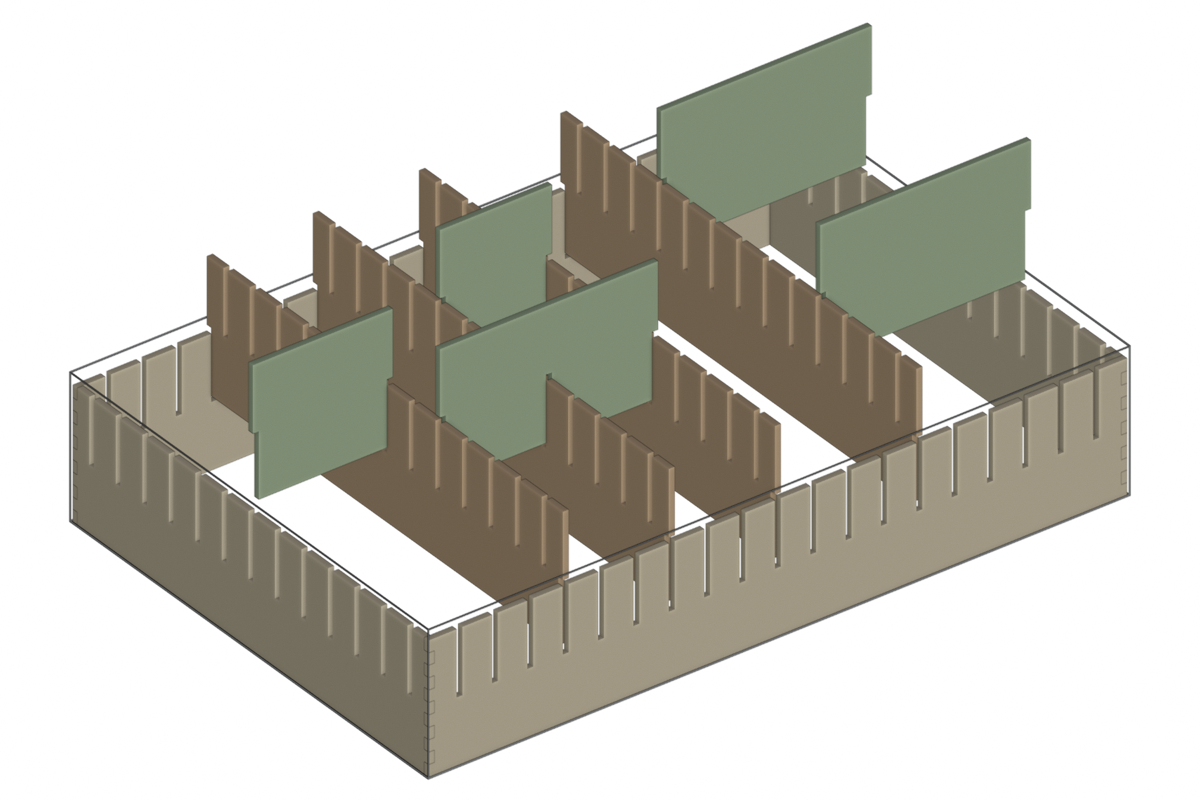
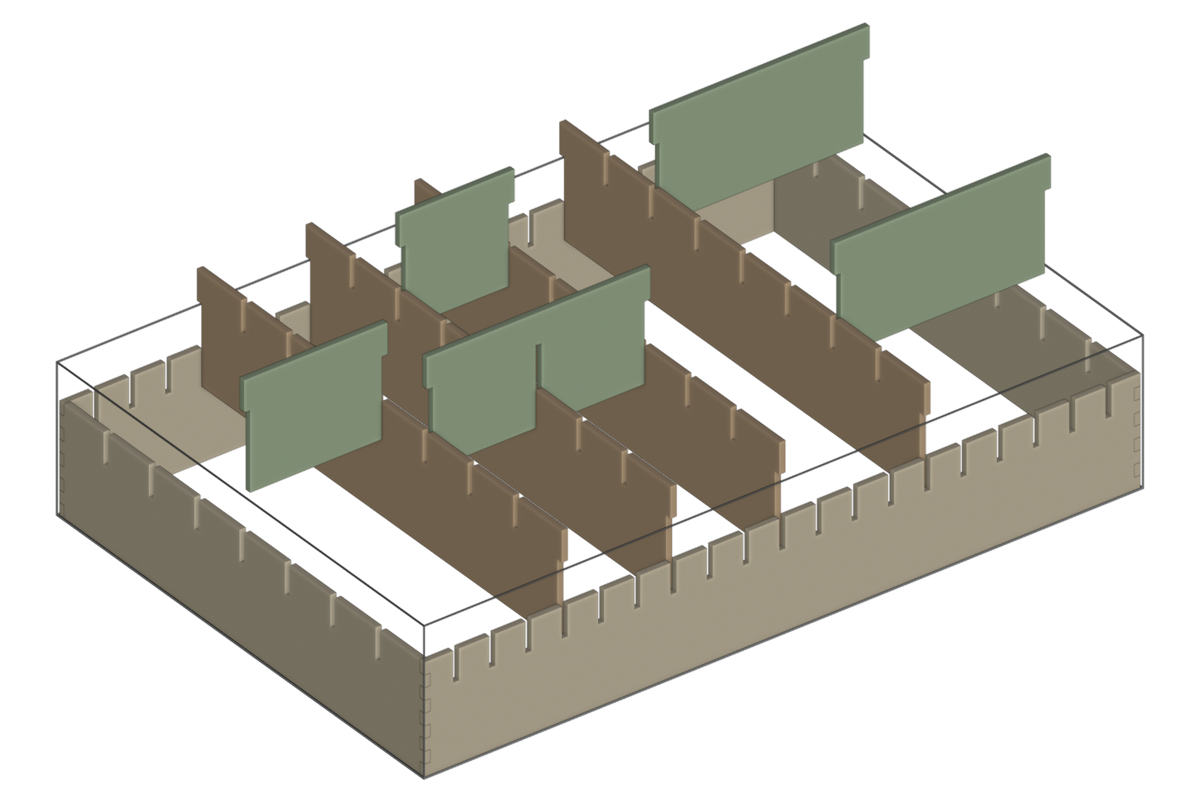
Drawer organizer: 4.5 in walls, 1.25 in notches, coarser row grid
Claude-Session: https://claude.ai/code/session_01LZycd3S2pwbAJV8HQ6xUfH

diff --git a/projects/drawer-organizer/config.py b/projects/drawer-organizer/config.py
@@ -11,19 +11,20 @@ CONFIG = OrganizerConfig(
     drawer_depth=20.25,
     drawer_height=6.0,
     clearance=1 / 16,
-    height=5.5,
+    height=4.5,
     thickness=0.25,
     column_pitch=1.5,
-    row_pitch=1.5,
+    row_pitch=2.5,
+    notch_depth=1.25,
     # Column dividers at these grid positions (left to right).
     columns=[-6, -3, 0, 4],
     # Row dividers: (start boundary, end boundary, row index). Boundary 0 is the left
     # wall, 1..4 the column dividers above, 5 the right wall.
     rows=[
         RowDivider(0, 1, 0),    # column 1 split in half
-        RowDivider(1, 3, -2),   # one long divider across columns 2 and 3, crossing divider 2
+        RowDivider(1, 3, -1),   # one long divider across columns 2 and 3, crossing divider 2
         RowDivider(2, 3, 2),    # column 3 gets a second split further back
-        RowDivider(4, 5, -3),   # column 5 split into three
-        RowDivider(4, 5, 3),
+        RowDivider(4, 5, -2),   # column 5 split into three
+        RowDivider(4, 5, 2),
     ],
 )

diff --git a/projects/drawer-organizer/test_design.py b/projects/drawer-organizer/test_design.py
@@ -15,10 +15,11 @@ def test_outer_size_and_grid(design):
     assert xs == sorted(xs) and len(xs) == 19
     assert xs[0] + xs[-1] == pytest.approx(design.width)  # symmetric about the centre
     assert xs[0] - 0.125 >= 0.25 + 0.5                   # clear of the corner joint plus margin
-    assert len(design.row_grid) == 13
+    assert len(design.row_grid) == 7
 
 
 def test_egg_crate_notches_are_complementary(design):
+    assert design.top_notch_depth == 1.25
     assert design.top_notch_depth + design.bottom_notch_depth == design.height
 
 

diff --git a/projects/drawer-organizer/README.md b/projects/drawer-organizer/README.md
@@ -42,10 +42,11 @@ All in `config.py`, all in inches.
 | parameter | default | notes |
 |---|---|---|
 | `clearance` | 1/16 per side | box is the drawer size minus twice this |
-| `height` | 5.5 | wall and divider height; see open questions |
+| `height` | 4.5 | wall and divider height |
 | `thickness` | 0.25 | **measure your actual stock with calipers** and set this |
-| `column_pitch`, `row_pitch` | 1.5 | spacing of the notch grid |
-| `notch_depth` | half the height | depth of the top-edge notches; dividers get the rest |
+| `column_pitch` | 1.5 | spacing of column-divider positions across the width |
+| `row_pitch` | 2.5 | spacing of row-divider positions along the depth |
+| `notch_depth` | 1.25 | depth of the top-edge notches; dividers' bottom notches get the rest (3.25) |
 | `finger_width` | 0.5 | target; the real width makes an odd finger count |
 | `edge_margin` | 0.5 | solid wood kept between the outermost notch and a corner joint |
 | `columns` | `[-6, -3, 0, 4]` | grid indices of column dividers, 0 at the centre |
@@ -53,7 +54,7 @@ All in `config.py`, all in inches.
 
 Grid indices count outward from the middle: column index 0 is the drawer's centre line,
 negative is left, positive is right; row index 0 is the middle of the depth, negative
-toward the front. With the defaults there are 19 column positions and 13 row positions.
+toward the front. With the defaults there are 19 column positions and 7 row positions.
 
 ## Current layout
 
@@ -62,10 +63,10 @@ Running `build.py` prints this. Five columns, left to right:
 | column | clear width | cells front to back |
 |---|---|---|
 | 1 | 5.4375 | 9.6875 / 9.6875 |
-| 2 | 4.25 | 6.6875 / 12.6875 |
-| 3 | 4.25 | 6.6875 / 5.75 / 6.6875 |
+| 2 | 4.25 | 7.1875 / 12.1875 |
+| 3 | 4.25 | 7.1875 / 7.25 / 4.6875 |
 | 4 | 5.75 | 19.625 |
-| 5 | 8.4375 | 5.1875 / 8.75 / 5.1875 |
+| 5 | 8.4375 | 4.6875 / 9.75 / 4.6875 |
 
 This is a demonstration layout that exercises every joint type, not a proposal for
 what belongs in the drawer.
@@ -74,10 +75,10 @@ what belongs in the drawer.
 
 | part | count | size (in) | on the Glowforge |
 |---|---|---|---|
-| long wall | 2 | 29.625 x 5.5 | passthrough |
-| short wall | 2 | 20.125 x 5.5 | passthrough |
-| column divider | 4 | 20.125 x 5.5 | passthrough |
-| row dividers | 5 | 4.75 to 9.25 x 5.5 | fit on the bed |
+| long wall | 2 | 29.625 x 4.5 | passthrough |
+| short wall | 2 | 20.125 x 4.5 | passthrough |
+| column divider | 4 | 20.125 x 4.5 | passthrough |
+| row dividers | 5 | 4.75 to 9.25 x 4.5 | fit on the bed |
 
 Every part that runs the full depth of the drawer is just over the 19.5 in bed, so the
 walls and column dividers all need the passthrough. Shrinking the box to 19.5 in deep
@@ -89,13 +90,13 @@ stock thickness get applied at that stage; the geometry here is nominal.
 
 ## Decisions and open questions
 
-1. **Wall height 5.5 in, not 6.** The clearance above a drawer is usually less than the
-   drawer side height. Measure the gap with the drawer closed and set `height`.
-2. **Notch depth half the height.** Deep notches give the most rigid joint but leave
-   visible slots along the wall tops wherever no divider sits. A shallower notch (say
-   1.5 in) looks cleaner and the dividers still hold, but they can rock a little at the
-   bottom. Set `notch_depth` to try it.
-3. **1.5 in pitch.** Finer pitch means more positions and more notches. Try 1 in or 2 in.
+1. **Wall height 4.5 in** in a drawer about 6 in tall, leaving generous clearance above.
+2. **Notch depth 1.25 in.** Shallow top-edge notches keep the wall tops mostly clean;
+   the dividers' 3.25 in bottom notches do the holding. The trade-off is that a divider
+   is held sideways only by its 1.25 in ear in the wall slot, so a loose fit lets it
+   rock; kerf compensation at export should aim for a snug fit.
+3. **Pitch 1.5 in across, 2.5 in front to back.** Column positions stay fine-grained;
+   row positions are deliberately few (7).
 4. **Stock thickness.** Nominal 1/4 in plywood is usually 0.2 to 0.23 in. The design
    scales with `thickness`, so measure before cutting.
 5. **Grain and faces.** Plywood cuts the same either side up, and the walls' outer faces
